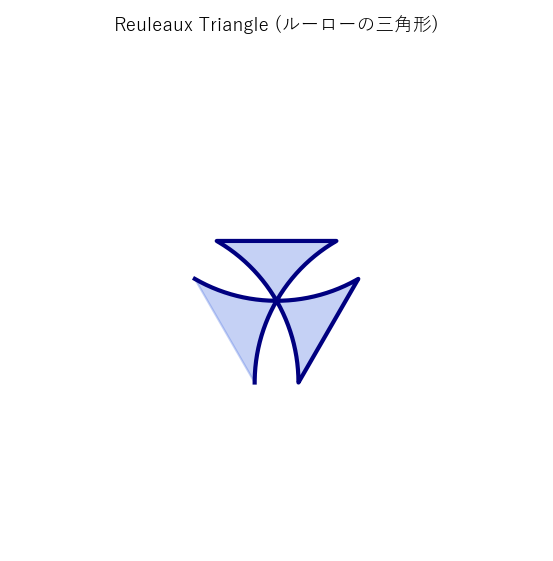
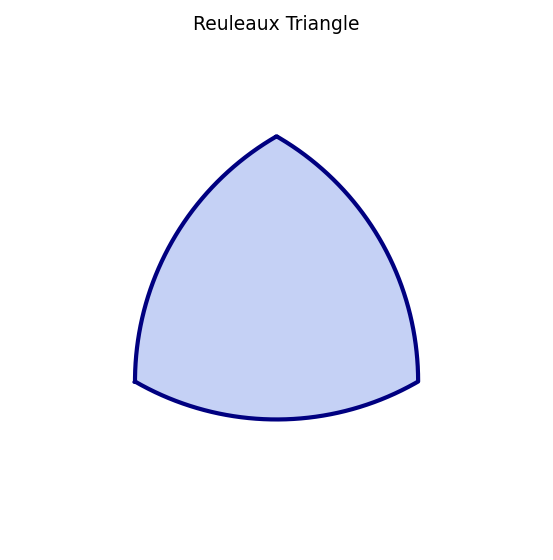
fix: ルーローの三角形PNG修正・SVG追加・用語g337画像を.pngに統一
generate_shapes.py の gen_reuleaux() で arc 半径を radius=1 から
sqrt(3)（正三角形の辺の長さ）に修正し、正しい定幅形状を生成。
SVG版 (reuleaux.svg) も追加。g337 の body 参照を .png に統一。

Changed region(s): [[0.2152, 0.2429, 0.7685, 0.7589], [0.1844, 0.0304, 0.7993, 0.0607]]

diff --git a/tools/generate_shapes.py b/tools/generate_shapes.py
@@ -419,12 +419,13 @@ def gen_reuleaux():
         center = verts[i]
         p1 = verts[(i + 1) % 3]
         p2 = verts[(i + 2) % 3]
+        r = np.linalg.norm(p1 - center)  # side length = sqrt(3)
         a1 = np.arctan2(p1[1] - center[1], p1[0] - center[0])
         a2 = np.arctan2(p2[1] - center[1], p2[0] - center[0])
         if a2 - a1 > np.pi:  a2 -= 2 * np.pi
         if a1 - a2 > np.pi:  a1 -= 2 * np.pi
         t_arc = np.linspace(a1, a2, 80)
-        pts.extend(zip(center[0] + np.cos(t_arc), center[1] + np.sin(t_arc)))
+        pts.extend(zip(center[0] + r * np.cos(t_arc), center[1] + r * np.sin(t_arc)))
     xs, ys = zip(*pts)
     ax.fill(xs, ys, alpha=0.3, color="royalblue")
     ax.plot(xs, ys, "navy", linewidth=2)

diff --git a/glossary/terms/g339.md b/glossary/terms/g339.md
@@ -1,0 +1,24 @@
+---
+id: g339
+name: "バブルシェルマイセリウム"
+en: "Bubble Shell Mycelium"
+reading: "ばぶるしぇるまいせりうむ"
+category: wiim-concepts
+field: "架空生命体・宇宙生物学・泡構造工学"
+related: ["wiim_083", "wiim_084", "g134", "g338", "g334", "g135"]
+---
+
+# バブルシェルマイセリウム（Bubble Shell Mycelium）
+
+**Bubble Shell Mycelium**  WIIM概念 / 架空生命体・宇宙生物学・泡構造工学 / g339
+読み: ばぶるしぇるまいせりうむ　関連: [wiim_083](../../docs/biology/wiim_083.md), [wiim_084](../../docs/biology/wiim_084.md), [コズミックマイス](g134.md), [プラトーの法則](g338.md), [ルーネベルクレンズ](g334.md), [シェルマイセリウム](g135.md)
+
+**別名**: BSマイセリウム / BSM
+
+WIIMの思考実験（[wiim_084](../../docs/biology/wiim_084.md)）で命名された架空の多球コロニー構造体。「Bubble Shell（泡殻）」と「Mycelium（菌糸体）」を組み合わせた造語で、BS[マイセリウム](g112.md)・BSMと略される。
+
+[コズミックマイス](g134.md)（g134）の球状コロニーを複数集合させた泡集合体であり、低重力環境で[プラトーの法則](g338.md)（g338）に従って自発的に面積最小化配置を取ると仮定される。個々の球は[wiim_083](../../docs/biology/wiim_083.md)で論じた疑似ルーネベルク構造（三層密度勾配による全方向集光体）を維持し、それらがプラトー境界を通じてネットワーク接続されることで[ハイヴマインド](g044.md)の接続基板が構造から自然発生する。
+
+BSMは三つのスケールが入れ子になった階層構造を持つ。大域スケールでは正二十面体ベースのジオデシック分割がBSM全体の球形外形を規定し（[ウイルス](g116.md)カプシドやC₆₀が同じ[原理](g306.md)で最小遺伝子情報から最大構造強度を実現するのと同様）、中域スケールではプラトーの法則が隣接バブル間のH=0接触面を形成し、微域スケールでは各バブル内部の密度勾配が集光を担う。
+
+[シェルマイセリウム](g135.md)（g135）が「1つの[コスモシェル](g132.md)に菌糸が共生する形態」であるのに対し、BSMは「複数の球状コロニーが泡力学で[自己組織化](g028.md)した超構造体」として位置づけられる。

diff --git a/glossary/terms/g338.md b/glossary/terms/g338.md
@@ -1,0 +1,22 @@
+---
+id: g338
+name: "プラトーの法則"
+en: "Plateau's Laws"
+reading: "ぷらとーのほうそく"
+category: physics
+field: "流体力学・表面物理・泡構造数学"
+related: ["wiim_084", "g134", "g339"]
+---
+
+# プラトーの法則（Plateau's Laws）
+
+**Plateau's Laws**  物理学 / 流体力学・表面物理・泡構造数学 / g338
+読み: ぷらとーのほうそく　関連: [wiim_084](../../docs/biology/wiim_084.md), [コズミックマイス](g134.md), [バブルシェルマイセリウム](g339.md)
+
+複数の石鹸膜や泡が接するとき、界面が従う幾何学的法則。19世紀ベルギーの物理学者ジョゼフ・プラトー（Joseph Plateau）が実験的に定式化した。
+
+法則は4条件からなる。①各膜面は一定の平均曲率を持つ。②膜が2枚の気泡膜で構成される場合、内外の圧力差はヤング＝ラプラス方程式で記述される（石鹸膜では両面に表面張力が働くためΔP = 4γH）。③3枚の膜が交わる「プラトー境界」では膜が互いに120°で交差する。④4本のプラトー境界が交わる頂点では正四面体角（約109.47°）が形成される。
+
+2つの等圧バブルが共有する壁では平均曲率H = 0となり、完全に平坦な膜が形成される。この「H=0面」は両側の圧力差がゼロであるため、化学シグナルや電荷が圧力勾配に妨げられない中立接続面として機能する。
+
+「同体積・等圧の多数セルを最小面積で充填する最適構造」の問いはケルビンの予想（1887年）として長く未解決だったが、1994年にウェア＝フェラン構造がケルビン構造より約0.3%少ない表面積を実現することが示された。この最適配置は自然界の泡・細胞充填・結晶構造などに広く出現する。WIIMの思考実験では、[コズミックマイス](g134.md)の多球コロニー（[バブルシェルマイセリウム](g339.md)）がこの法則に従って自発的に最小エネルギー配置を形成すると仮定される（[wiim_084](../../docs/biology/wiim_084.md)）。

diff --git a/glossary/terms/g336.md b/glossary/terms/g336.md
@@ -1,0 +1,20 @@
+---
+id: g336
+name: "墓場軌道"
+en: "Graveyard Orbit"
+reading: "はかばきどう"
+category: astronomy
+field: "宇宙工学・軌道力学"
+related: []
+---
+
+# 墓場軌道（Graveyard Orbit）
+
+**Graveyard Orbit**  天文学・宇宙論 / 宇宙工学・軌道力学 / g336
+読み: はかばきどう　関連: —
+
+運用を終えた人工[衛星](g123.md)を廃棄するために移動させる、[静止軌道](g077.md)より数百キロメートル高い軌道帯。正式には「廃棄軌道」とも呼ばれる。
+
+静止軌道（高度約35,786km）は気象衛星・通信衛星が密集する希少な軌道資源であり、デブリ化した廃衛星を放置すると衝突リスクが急増する。そのため、燃料残量が確保できる場合は寿命末期に離脱噴射を行い、地球から約36,000km以遠の墓場軌道へ押し上げる。移送後は残留推進剤を放出してタンクの爆発リスクを下げる「パッシベーション」処理が推奨される。
+
+墓場軌道に収容された衛星は大気抵抗がほぼゼロのため自然落下せず、数百万年以上そのまま周回し続けると推定される。軌道汚染の観点では「問題の先送り」に過ぎないとする批判もある。低軌道衛星は大気圏再突入による処理が主流だが、静止軌道では燃料コストが膨大になるため墓場軌道への移送が現実的な解として広く採用されている。

diff --git a/glossary/terms/g337.md b/glossary/terms/g337.md
@@ -1,0 +1,22 @@
+---
+id: g337
+name: "ルーローの三角形"
+en: "Reuleaux Triangle"
+reading: "るーろーのさんかっけい"
+category: mathematics
+field: "幾何学"
+related: []
+---
+
+# ルーローの三角形（Reuleaux Triangle）
+
+**Reuleaux Triangle**  数学・論理・幾何学 / 幾何学 / g337
+読み: るーろーのさんかっけい　関連: —
+
+正三角形の各頂点を中心とし、対辺の長さを半径とする3つの円弧によって囲まれた曲線図形。19世紀ドイツの機械工学者フランツ・ルーロー（Franz Reuleaux）にちなんで命名された。
+
+最大の特徴は「定幅性（定幅図形）」であり、任意の方向から測った幅が常に一定の値になる。この性質から、正方形の穴を掘るドリルビットの断面やヴァンケル型回転エンジンのローター形状、英国の50ペンスコインなど実用的な設計にも採用されている。
+
+「丸くないのに転がせる」という直感に反した形状は、思考実験の文脈では「幾何学的不可能の偽命題」の典型例として引用されることがある。円以外の定幅図形が存在するという事実は、形状と機能の自明な対応関係を問い直す契機となる。
+
+![ルーローの三角形](../../docs/assets/shapes/reuleaux.png)

diff --git a/glossary/terms/g134.md b/glossary/terms/g134.md
@@ -5,13 +5,13 @@ en: "Cosmic Myce"
 reading: "こずみっくまいす"
 category: wiim-concepts
 field: "架空生命体・宇宙生物学・分散知性"
-related: ["wiim_008", "wiim_025", "wiim_059", "wiim_068"]
+related: ["wiim_008", "wiim_025", "wiim_059", "wiim_068", "wiim_083", "wiim_084"]
 ---
 
 # コズミックマイス（Cosmic Myce）
 
 **Cosmic Myce**  WIIM概念 / 架空生命体・宇宙生物学・分散知性 / g134
-読み: こずみっくまいす　関連: [wiim_008](../../docs/biology/wiim_008.md), [wiim_025](../../docs/biology/wiim_025.md), [wiim_059](../../docs/biology/wiim_059.md), [wiim_068](../../docs/biology/wiim_068.md)
+読み: こずみっくまいす　関連: [wiim_008](../../docs/biology/wiim_008.md), [wiim_025](../../docs/biology/wiim_025.md), [wiim_059](../../docs/biology/wiim_059.md), [wiim_068](../../docs/biology/wiim_068.md), [wiim_083](../../docs/biology/wiim_083.md), [wiim_084](../../docs/biology/wiim_084.md)
 
 **別名**: 宇宙菌糸知性 / 惑星間菌糸ネットワーク / 分散菌糸知性
 

diff --git a/glossary/terms/g135.md b/glossary/terms/g135.md
@@ -5,13 +5,13 @@ en: "Shell Mycelium"
 reading: "しぇるまいせりうむ"
 category: wiim-concepts
 field: "架空生命体・宇宙生物学・共生系"
-related: ["wiim_008", "wiim_011", "wiim_025", "wiim_075"]
+related: ["wiim_008", "wiim_011", "wiim_025", "wiim_075", "wiim_084"]
 ---
 
 # シェルマイセリウム（Shell Mycelium）
 
 **Shell Mycelium**  WIIM概念 / 架空生命体・宇宙生物学・共生系 / g135
-読み: しぇるまいせりうむ　関連: [wiim_008](../../docs/biology/wiim_008.md), [wiim_011](../../docs/physics/wiim_011.md), [wiim_025](../../docs/biology/wiim_025.md), [wiim_075](../../docs/biology/wiim_075.md)
+読み: しぇるまいせりうむ　関連: [wiim_008](../../docs/biology/wiim_008.md), [wiim_011](../../docs/physics/wiim_011.md), [wiim_025](../../docs/biology/wiim_025.md), [wiim_075](../../docs/biology/wiim_075.md), [wiim_084](../../docs/biology/wiim_084.md)
 
 **別名**: 宇宙生命カプセル / 菌糸宇宙カプセル
 

diff --git a/glossary/terms/g132.md b/glossary/terms/g132.md
@@ -5,13 +5,13 @@ en: "CosmosShell"
 reading: "こすもしぇる"
 category: wiim-engineering
 field: "架空素材・宇宙工学・テラフォーミング"
-related: ["wiim_011", "wiim_064"]
+related: ["wiim_011", "wiim_064", "wiim_083", "wiim_084"]
 ---
 
 # コスモシェル（CosmosShell）
 
 **CosmosShell**  WIIM派生技術 / 架空素材・宇宙工学・テラフォーミング / g132
-読み: こすもしぇる　関連: [wiim_011](../../docs/physics/wiim_011.md), [wiim_064](../../docs/physics/wiim_064.md)
+読み: こすもしぇる　関連: [wiim_011](../../docs/physics/wiim_011.md), [wiim_064](../../docs/physics/wiim_064.md), [wiim_083](../../docs/biology/wiim_083.md), [wiim_084](../../docs/biology/wiim_084.md)
 
 **別名**: 閉鎖膜 / 宇宙のシャボン玉 / 天体膜 / 自己修復膜
 

diff --git a/glossary/terms/g334.md b/glossary/terms/g334.md
@@ -5,13 +5,13 @@ en: "Luneburg Lens"
 reading: "るーねべるくれんず"
 category: physics
 field: "電波工学・光学・生物視覚"
-related: []
+related: ["wiim_083"]
 ---
 
 # ルーネベルクレンズ（Luneburg Lens）
 
 **Luneburg Lens**  物理学 / 電波工学・光学・生物視覚 / g334
-読み: るーねべるくれんず　関連: —
+読み: るーねべるくれんず　関連: [wiim_083](../../docs/biology/wiim_083.md)
 
 球内の屈折率が中心から表面に向かって連続的に変化し、球面上の一点から入射した波を反対側の球面上の一点に完全収束させる球形グラジェントインデックス（GRIN）レンズ。1944年にRudolf Luneburgが理論的に導出した。
 

diff --git a/glossary/terms/g111.md b/glossary/terms/g111.md
@@ -5,13 +5,13 @@ en: "Spore"
 reading: "ほうし"
 category: biology
 field: "生物学・菌類学・宇宙生物学"
-related: ["wiim_017", "wiim_018"]
+related: ["wiim_017", "wiim_018", "wiim_083"]
 ---
 
 # 胞子（Spore）
 
 **Spore**  生物学・進化 / 生物学・菌類学・宇宙生物学 / g111
-読み: ほうし　関連: [wiim_017](../../docs/biology/wiim_017.md), [wiim_018](../../docs/biology/wiim_018.md)
+読み: ほうし　関連: [wiim_017](../../docs/biology/wiim_017.md), [wiim_018](../../docs/biology/wiim_018.md), [wiim_083](../../docs/biology/wiim_083.md)
 
 **別名**: スポア
 

diff --git a/glossary/README.md b/glossary/README.md
@@ -199,3 +199,6 @@ SF・物理学・宇宙論・哲学・生物学にまたがる用語を収録し
 
 
 
+
+
+
